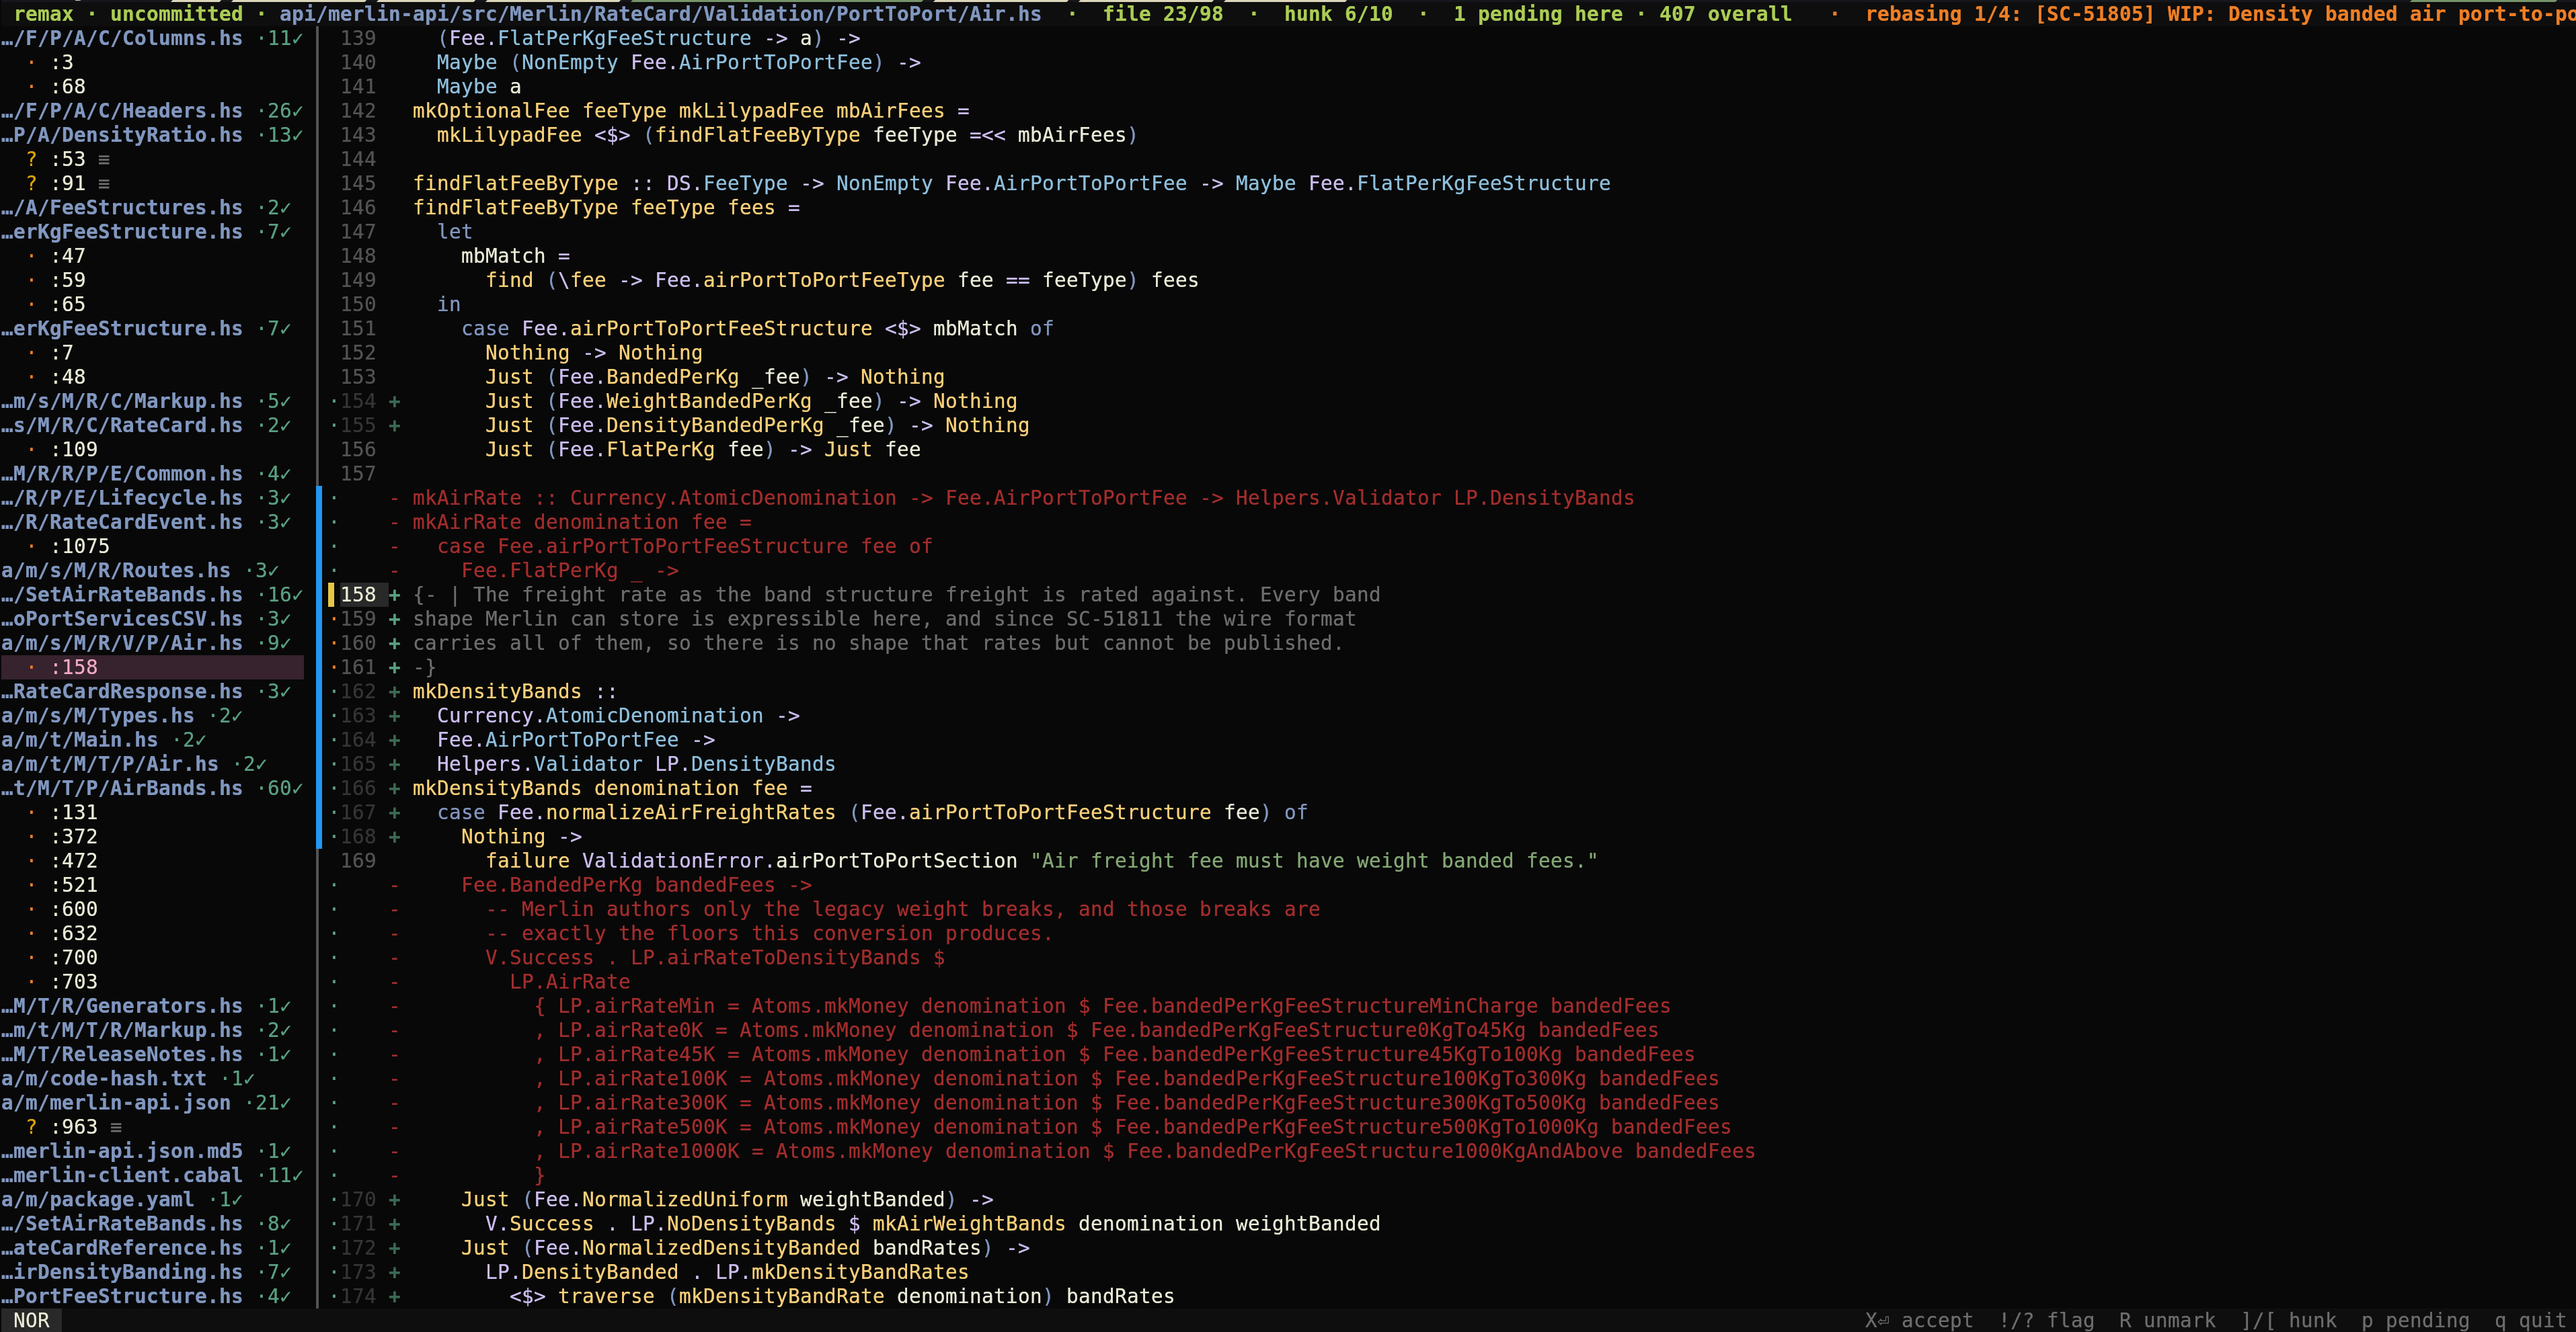
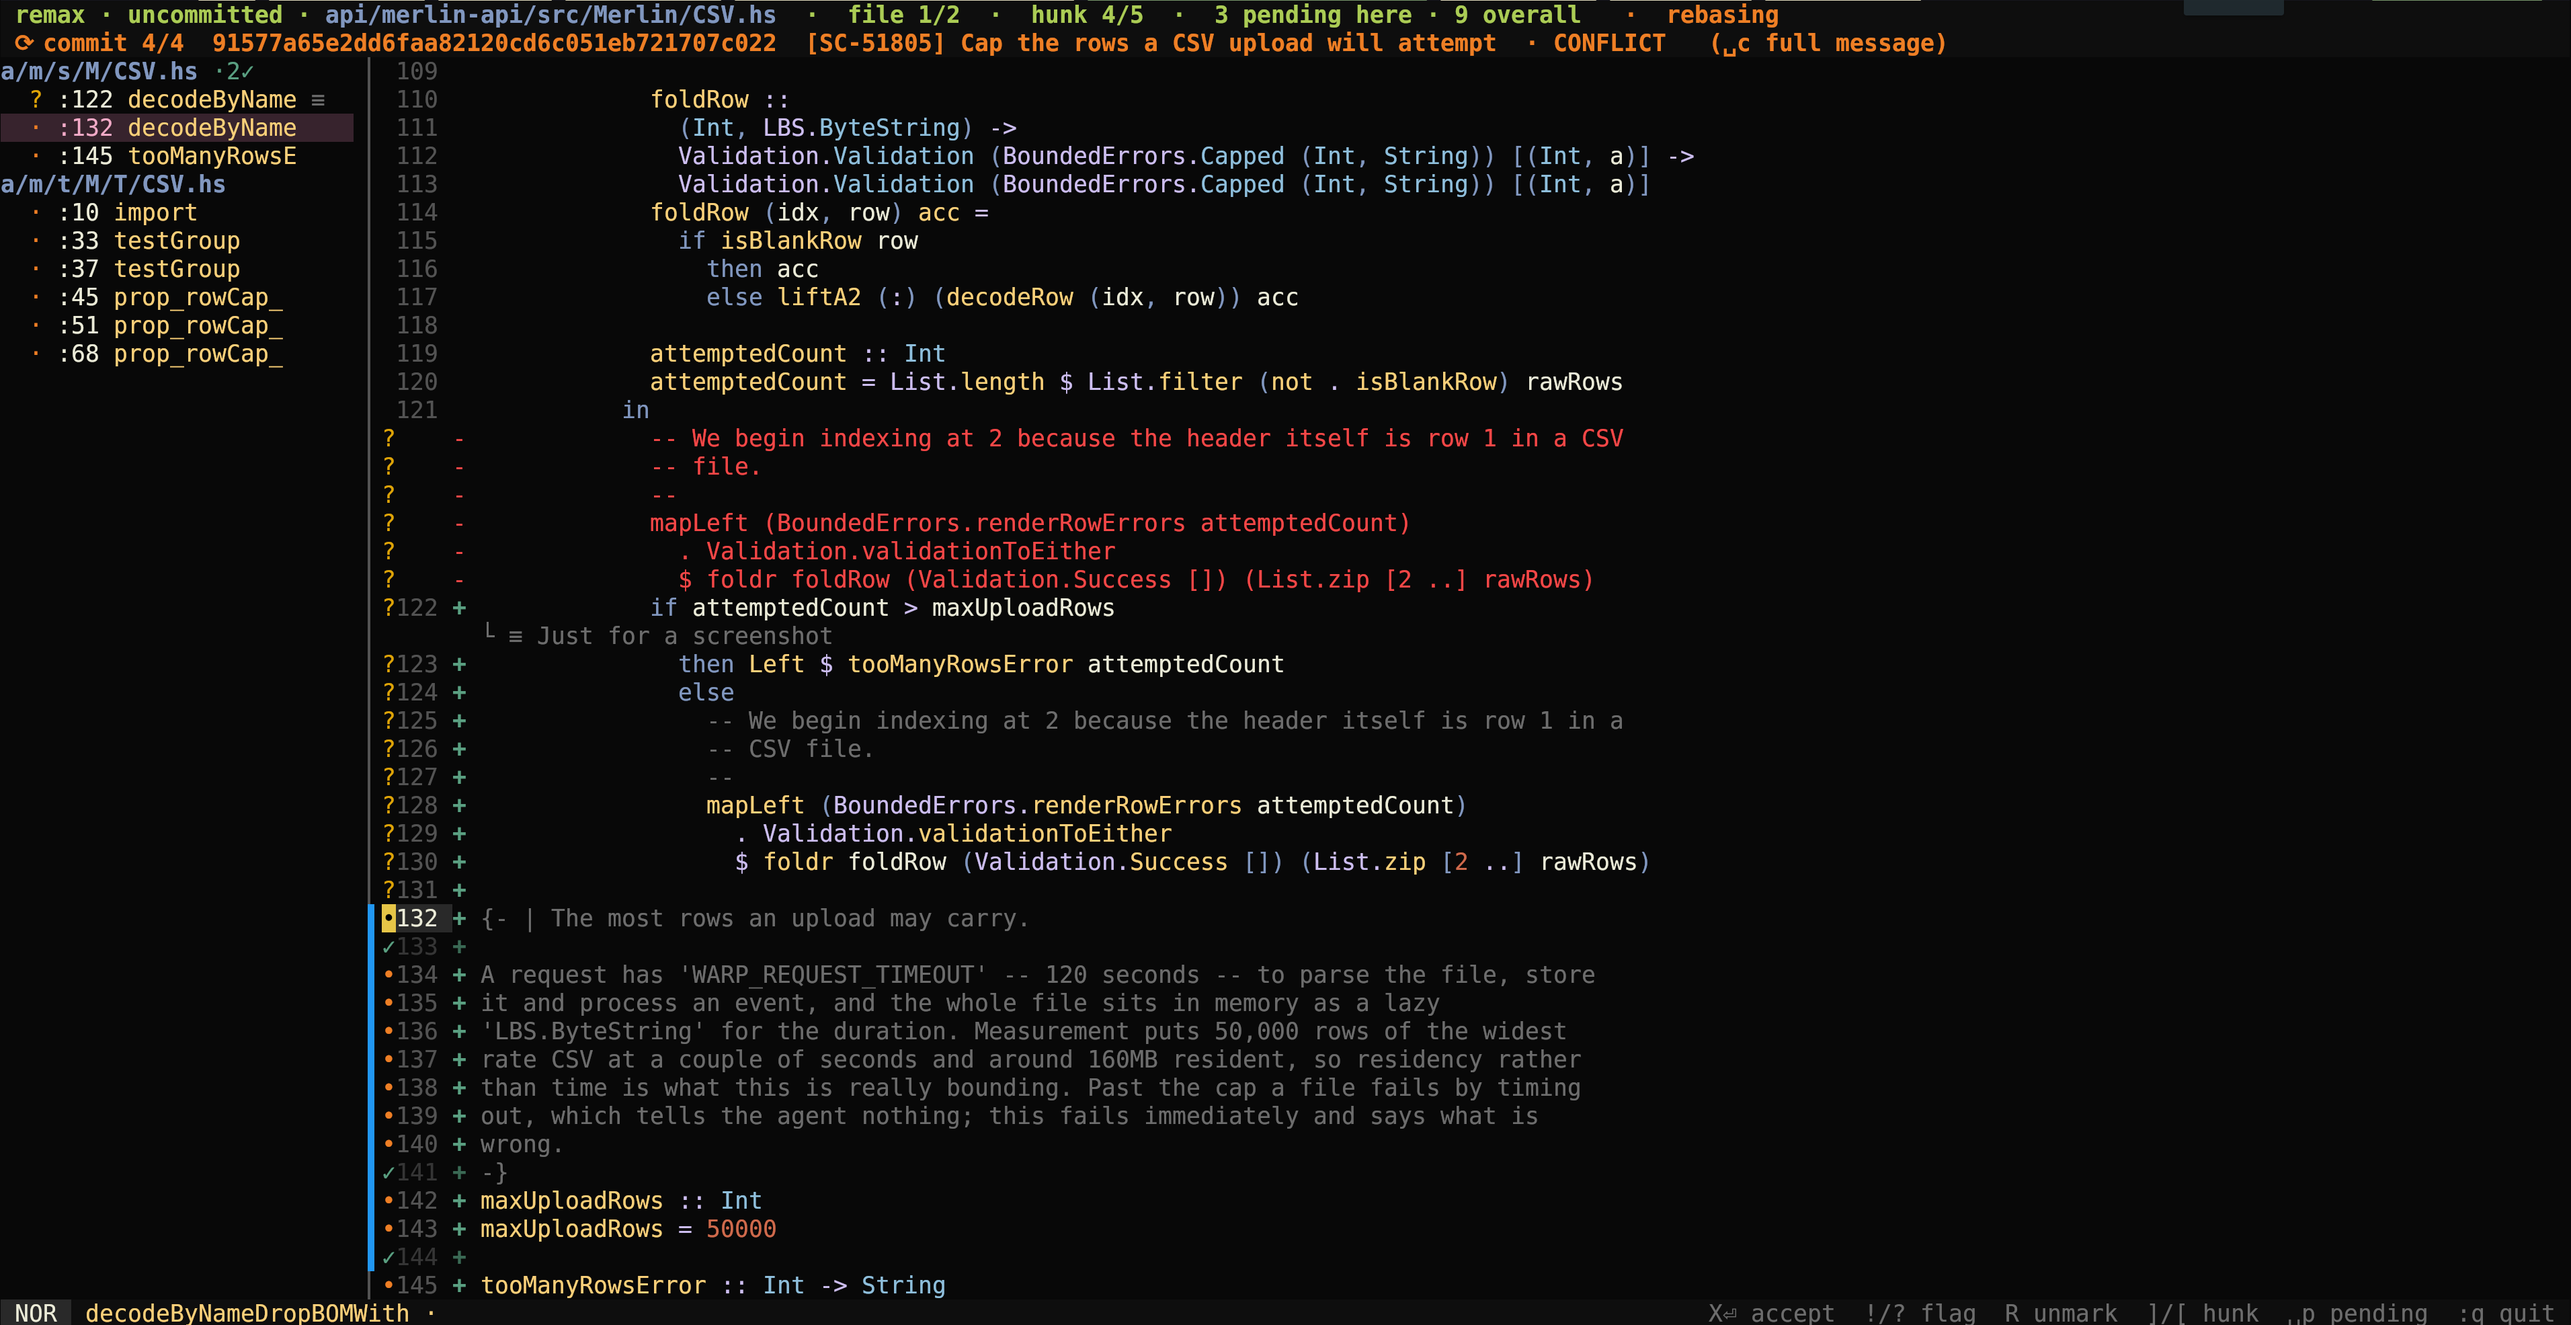
README: refresh hero byline for the updated screenshot

diff --git a/README.md b/README.md
@@ -10,10 +10,10 @@ content-keyed verdicts that survive rebases.
 
 ![remax reviewing a commit mid-rebase](hero.png)
 
-*A commit-by-commit `:rebase` review in progress: the header tracks the
-rebase (commit 1/4) and the pending counts, the tray lists hunks by file
-with their verdicts and notes, and removed lines float inline beside
-what replaced them.* Runs in a plain terminal (zellij-friendly).
+*A `:rebase` review paused on a conflict: the commit bar names the
+commit under review, the tray lists hunks by enclosing function, and a
+reviewer note sits inline between the removed lines and what replaced
+them.* Runs in a plain terminal (zellij-friendly).
 
 Prebuilt Linux binaries: every push to main updates the rolling
 [`latest` release](../../releases/tag/latest) — download
